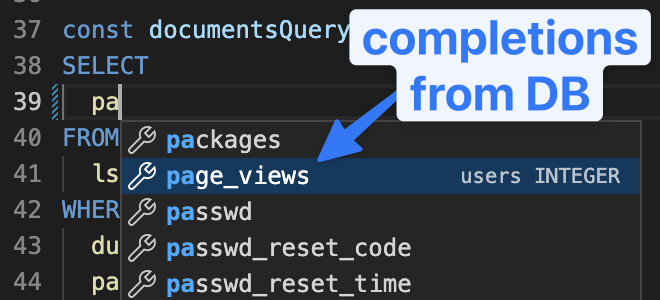
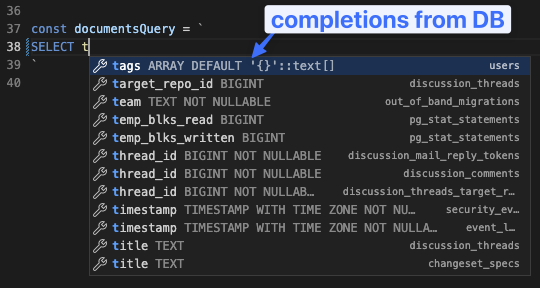
completions: type, nullability, insert after end of select

diff --git a/src/main.ts b/src/main.ts
@@ -177,8 +177,7 @@ export async function activateAsync(context: vscode.ExtensionContext) {
     if (!result) return
     const [stringStart, sqlNode] = result
     if (sqlNode.type !== 'identifier') return
-    let root = sqlNode
-    while (root.parent) root = root.parent
+    const root = getRoot(sqlNode)
     const locs: vscode.Location[] = []
     walk(root, node => {
       if (node.type !== 'identifier') return
@@ -253,13 +252,57 @@ export async function activateAsync(context: vscode.ExtensionContext) {
               // don't spam
               return
             }
-            const res = await client.query<{ table_name: string; column_name: string; data_type: string }>(
-              "select table_name, column_name, data_type from information_schema.columns where table_schema = 'public' group by table_name, column_name, data_type"
+
+            const [stringStart, sqlNode] = result
+
+            const res = await client.query<{
+              table_name: string
+              column_name: string
+              data_type: string
+              column_default: string | null
+              is_nullable: 'YES' | 'NO'
+            }>(
+              "select table_name, column_name, data_type, column_default, is_nullable from information_schema.columns where table_schema = 'public' group by table_name, column_name, data_type, column_default, is_nullable;"
             )
+
+            const aliasSuggestion = ((): { suggestion: string; offset: number } | undefined => {
+              if (sqlNode.type !== 'identifier') return
+              const parent = sqlNode.parent
+              if (!parent) return
+              const alias = parent.childForFieldName('table_alias')
+              if (!alias) return
+              const select = ancestors(sqlNode)
+                .reverse()
+                .find(n => n.type === 'select')
+              if (!select) return
+              let from: SyntaxNode | undefined = undefined
+              for (let n: SyntaxNode | null = select; n; n = n?.nextNamedSibling) {
+                if (n?.type === 'from') from = n
+              }
+              if (from) return
+              return { suggestion: alias.text, offset: select.endIndex }
+            })()
+
             const ret = res.rows.map(row => {
-              const i = new vscode.CompletionItem(row.column_name)
-              i.detail = `${row.table_name} ${row.data_type.toUpperCase()}`
-              i.documentation = `From table ${row.table_name}`
+              // const i = new vscode.CompletionItem(row.column_name)
+              const i = new vscode.CompletionItem({
+                label: row.column_name,
+                description: row.table_name,
+                detail:
+                  ' ' +
+                  row.data_type.toUpperCase() +
+                  (row.is_nullable === 'NO' ? ' NOT NULLABLE' : '') +
+                  (row.column_default !== null ? ' DEFAULT ' + row.column_default : ''),
+              })
+              if (aliasSuggestion) {
+                i.additionalTextEdits = [
+                  vscode.TextEdit.insert(
+                    document.positionAt(stringStart + aliasSuggestion.offset),
+                    ` FROM ${row.table_name} ${aliasSuggestion.suggestion}`
+                  ),
+                ]
+              }
+
               return i
             })
             await client.end()
@@ -396,6 +439,7 @@ const isSql = (document: vscode.TextDocument, node: SyntaxNode, prefixes: string
   return prefixes.some(prefix => leading.endsWith(prefix))
 }
 
+/** Returns [program, statement, ..., identifier] */
 const ancestors = (node: SyntaxNode): SyntaxNode[] => {
   let cur: SyntaxNode | null = node
   const ans: SyntaxNode[] = []
@@ -450,4 +494,10 @@ const observeConfiguration = <T>(
     })
   )
   return behaviorSubject
+}
+
+const getRoot = (node: SyntaxNode): SyntaxNode => {
+  let n = node
+  while (n.parent) n = n.parent
+  return n
 }
